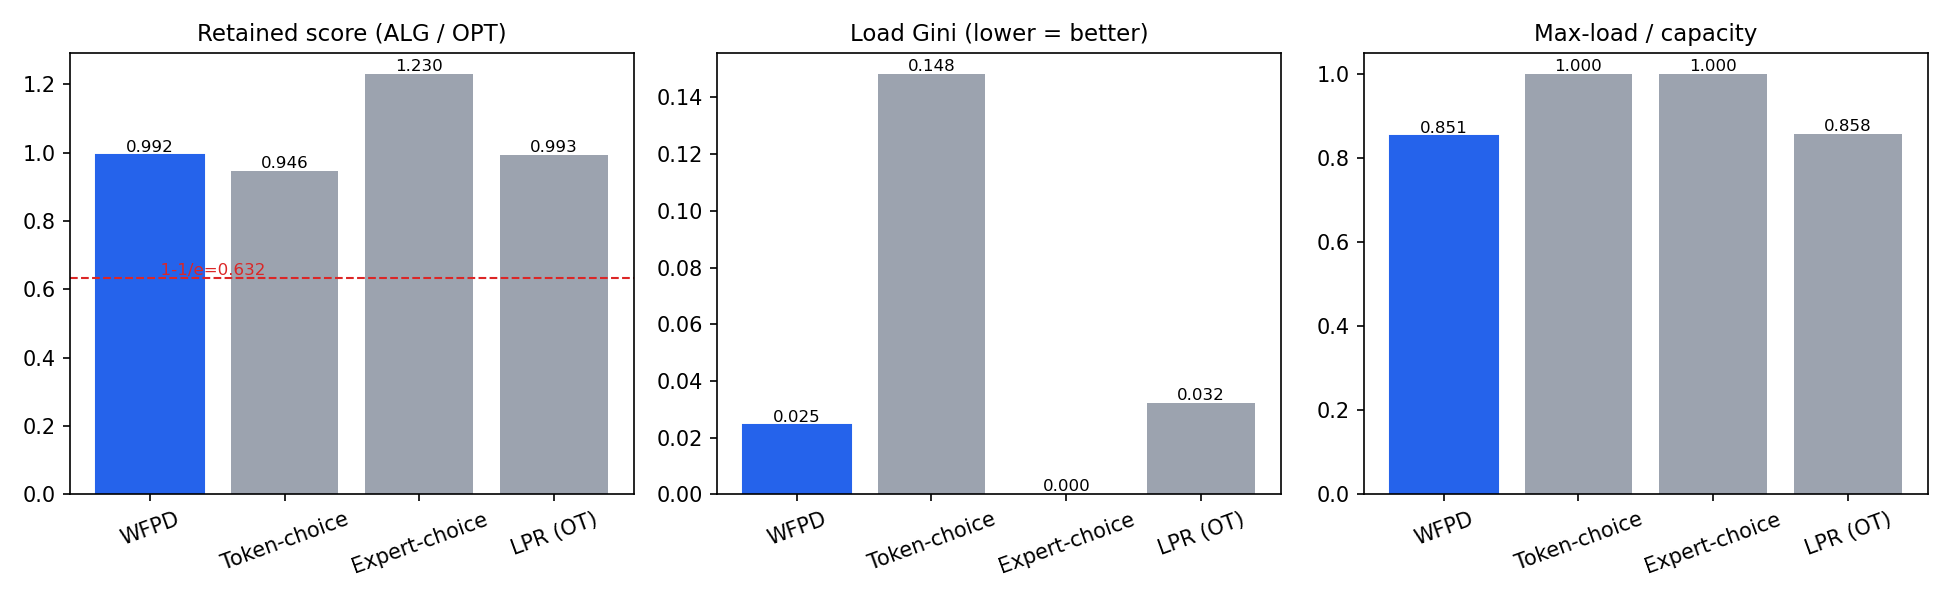
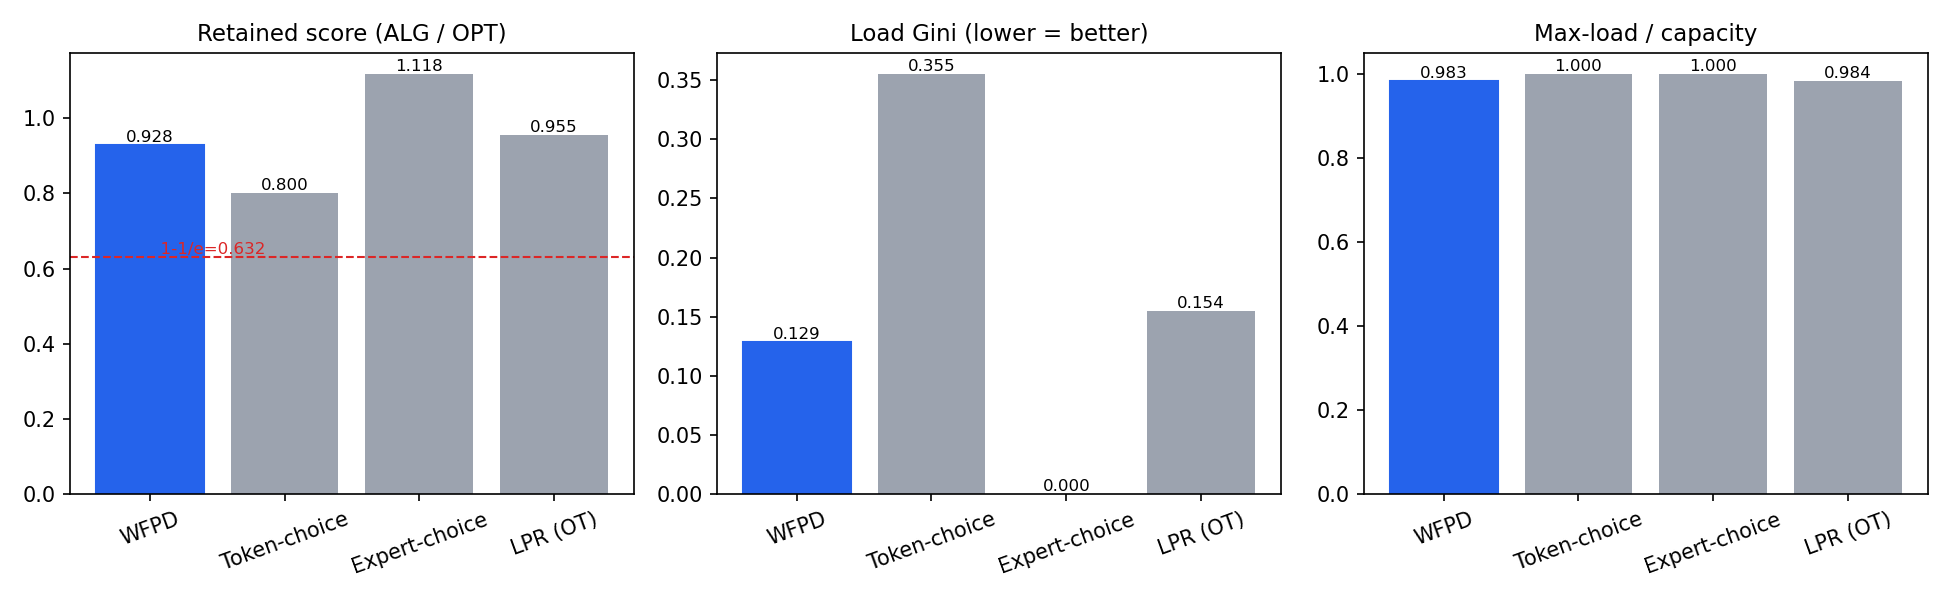
fix: per-model evaluation (no cross-model pooling); drop tiny trace

diff --git a/src/moe_routing/evaluate.py b/src/moe_routing/evaluate.py
@@ -1,18 +1,18 @@
 """evaluate.py — offline evaluation harness for online MoE routing.
 
-Loads cached gate-logit traces (data/traces/*.npz), runs WFPD and the baselines
-on each token block, and reports paper-grade metrics against the true offline
-optimum (OPT, via a HiGHS LP): retained-score ratio (ALG/OPT), max-load, Gini,
-served fraction, and mean experts/token. Aggregates over MoE layers, writes a
-CSV summary, and renders comparison figures (PDF+PNG) for the paper.
+Loads cached gate-logit traces (data/traces/*.npz) and evaluates EACH model
+(trace file) SEPARATELY — results across different models are never pooled, and
+each model uses its own top-k / expert count from its manifest. For every model,
+runs WFPD and the baselines per token block and reports paper-grade metrics
+against the true offline optimum (OPT, via a HiGHS LP): retained-score ratio
+(ALG/OPT), max-load, Gini, served fraction, and mean experts/token. Writes a
+per-model CSV (with a `model` column) and one comparison figure per model.
 
-Why ratio-to-OPT instead of raw objective: routers that violate the "<= k experts
-per token" budget (e.g. Expert-choice) inflate raw objective and look artificially
-strong. Measuring ALG / OPT under the SAME (<=k, <=C) constraints is the rigorous
-competitive ratio of Theorem 1 (guaranteed >= 1 - 1/e ~ 0.632; typically near 1).
+Why ratio-to-OPT: routers that violate the "<= k experts per token" budget
+(e.g. Expert-choice) inflate raw objective. ALG / OPT under the SAME (<=k, <=C)
+constraints is the competitive ratio of Theorem 1 (>= 1 - 1/e ~ 0.632).
 
 Run from the project root:
-    python src/moe_routing/trace_extract.py        # produce data/traces/*.npz first
     python src/moe_routing/evaluate.py
     python src/moe_routing/evaluate.py --cap-factor 1.25 --score softmax
 """
@@ -21,13 +21,13 @@ import argparse
 import glob
 import json
 import os
+import re
 import sys
 
 import numpy as np
 from scipy.optimize import linprog
 import scipy.sparse as sp
 
-# sibling modules (script dir is on sys.path when run as a file)
 sys.path.insert(0, os.path.dirname(os.path.abspath(__file__)))
 from algorithms import WaterFillingRouter                          # noqa: E402
 from baselines import (TokenChoiceRouter, ExpertChoiceRouter,      # noqa: E402
@@ -39,6 +39,7 @@ ROUTERS = {
     "Expert-choice": ExpertChoiceRouter,
     "LPR (OT)": LPRRouter,
 }
+COLS = ["retained", "gini", "Lmax/C", "minmax", "served", "experts/tok"]
 
 
 def to_scores(logits: np.ndarray, mode: str) -> np.ndarray:
@@ -112,7 +113,7 @@ def aggregate(per_router: dict) -> dict:
     return summary
 
 
-def make_figures(summary: dict, out_dir: str) -> str:
+def make_figures(summary: dict, out_dir: str, tag: str, title: str) -> str:
     import matplotlib
     matplotlib.use("Agg")
     import matplotlib.pyplot as plt
@@ -125,10 +126,10 @@ def make_figures(summary: dict, out_dir: str) -> str:
         ("Max-load / capacity", [summary[n]["Lmax/C"] for n in names], None),
     ]
     fig, axes = plt.subplots(1, 3, figsize=(13, 4))
-    for ax, (title, vals, ref) in zip(axes, panels):
+    for ax, (panel_title, vals, ref) in zip(axes, panels):
         bars = ax.bar(names, vals, color="#9ca3af")
         bars[0].set_color("#2563eb")                # highlight WFPD
-        ax.set_title(title, fontsize=11)
+        ax.set_title(panel_title, fontsize=11)
         ax.tick_params(axis="x", rotation=20)
         if ref is not None:
             ax.axhline(ref, ls="--", c="#dc2626", lw=1)
@@ -137,10 +138,11 @@ def make_figures(summary: dict, out_dir: str) -> str:
         for b, v in zip(bars, vals):
             ax.text(b.get_x() + b.get_width() / 2, v, f"{v:.3f}",
                     ha="center", va="bottom", fontsize=8)
+    fig.suptitle(title, fontsize=10)
     fig.tight_layout()
-    pdf = os.path.join(out_dir, "comparison.pdf")
+    pdf = os.path.join(out_dir, f"comparison_{tag}.pdf")
     fig.savefig(pdf)
-    fig.savefig(os.path.join(out_dir, "comparison.png"), dpi=150)
+    fig.savefig(os.path.join(out_dir, f"comparison_{tag}.png"), dpi=150)
     plt.close(fig)
     return pdf
 
@@ -162,40 +164,47 @@ def main() -> None:
     if not npz_files:
         sys.exit(f"No traces in {args.traces}; run trace_extract.py first.")
 
-    all_records = {name: [] for name in ROUTERS}
-    k_used = None
+    csv_rows = []                                   # (model_id, k, router, summary_dict)
     for npz in npz_files:
         man_path = npz.replace("_gate_logits.npz", "_manifest.json")
         manifest = json.load(open(man_path)) if os.path.exists(man_path) else {}
-        per_router, k_used = evaluate_trace(
+        model_id = manifest.get("model_id") or os.path.basename(npz)
+
+        per_router, k = evaluate_trace(
             npz, manifest, args.cap_factor, args.block_size,
             args.max_tokens, args.score)
-        for name, recs in per_router.items():
-            all_records[name].extend(recs)
+        summary = aggregate(per_router)
+        if not summary:
+            print(f"\n[skip] {model_id}: no evaluable blocks (too few tokens?).")
+            continue
 
-    summary = aggregate(all_records)
-    if not summary:
-        sys.exit("No evaluable blocks (traces too small?).")
+        m_exp = manifest.get("num_experts", "?")
+        print(f"\n=== {model_id}   top-k={k}  experts={m_exp}  score={args.score} ===")
+        header = f"{'router':14s} " + " ".join(f"{c:>12s}" for c in COLS)
+        print(header)
+        print("-" * len(header))
+        for name, s in summary.items():
+            print(f"{name:14s} " + " ".join(f"{s[c]:12.4f}" for c in COLS))
+            csv_rows.append((model_id, k, name, s))
 
-    cols = ["retained", "gini", "Lmax/C", "minmax", "served", "experts/tok"]
-    header = f"{'router':14s} " + " ".join(f"{c:>12s}" for c in cols)
-    print(f"\nscore={args.score}   top-k={k_used}   cap-factor={args.cap_factor}")
-    print(header)
-    print("-" * len(header))
-    for name, s in summary.items():
-        print(f"{name:14s} " + " ".join(f"{s[c]:12.4f}" for c in cols))
+        tag = re.sub(r"[^0-9a-zA-Z]+", "_", model_id)
+        os.makedirs(args.figures, exist_ok=True)
+        make_figures(summary, args.figures, tag, model_id)
+
+    if not csv_rows:
+        sys.exit("No evaluable blocks found across any trace.")
 
     os.makedirs(args.results, exist_ok=True)
     csv_path = os.path.join(args.results, "eval_summary.csv")
     with open(csv_path, "w") as f:
-        f.write("router," + ",".join(cols) + "\n")
-        for name, s in summary.items():
-            f.write(name + "," + ",".join(f"{s[c]:.6f}" for c in cols) + "\n")
+        f.write("model,top_k,router," + ",".join(COLS) + "\n")
+        for model_id, k, name, s in csv_rows:
+            f.write(f"{model_id},{k},{name}," +
+                    ",".join(f"{s[c]:.6f}" for c in COLS) + "\n")
 
-    os.makedirs(args.figures, exist_ok=True)
-    pdf = make_figures(summary, args.figures)
-    print(f"\nsaved table  -> {csv_path}")
-    print(f"saved figure -> {pdf}")
+    n_models = len({r[0] for r in csv_rows})
+    print(f"\nsaved table -> {csv_path}")
+    print(f"saved {n_models} per-model figure(s) -> {args.figures}")
 
 
 if __name__ == "__main__":